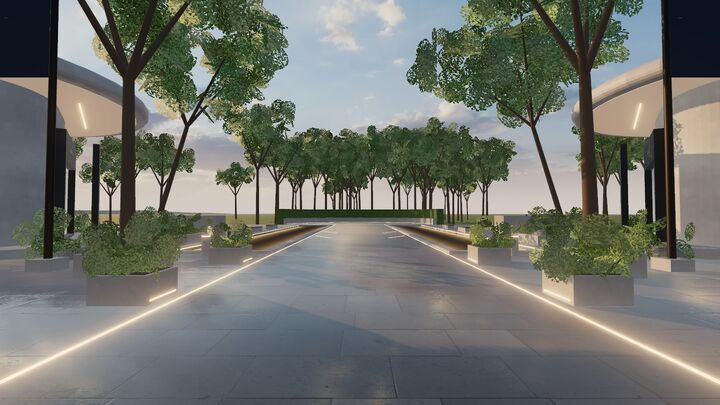
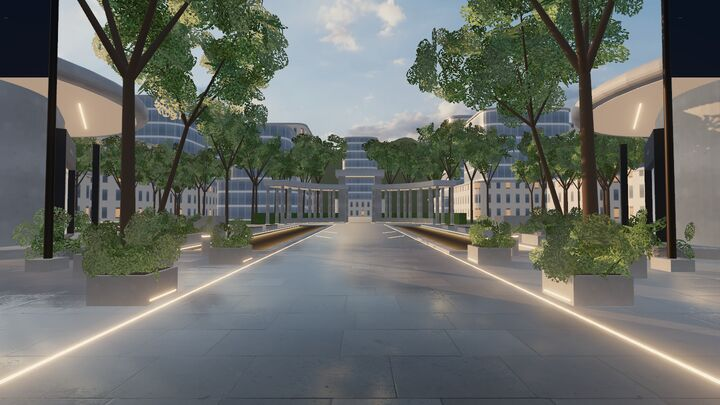
world: enclose the district with an entrance colonnade and a city ring
The owner asked to close off the open lawn fields around the plaza.
- Entrance colonnade on the terrace: slender columns, curved canopy with
  lit soffit and warm column uplights, central portal framing the axis.
- City ring behind the side groves and past the entrance: rounded blocks
  with podium + setback massing, two procedural facade families (glass
  with slim slab edges; cream stone with punched windows), a few warm-lit
  panes, cornices, paved streets; lower toward the lake; a civic tower
  terminates the avenue through the portal.
- Planted hills behind the city (never over the lake) and a haze-toned
  skyline beside the mountains. Softer sun glint on water.
- Iterated from renders: striped facades, block density, lawn gaps, hills
  in the lake, and bright skyline slabs were all fixed.
- A/B: no measurable frame-time change (+24k tris, +5 draws; 121k/150k).

Local: 66 unit, 29 browser, 53 lifecycle pass.

diff --git a/src/world/district/surroundings.ts b/src/world/district/surroundings.ts
@@ -1,0 +1,160 @@
+import { BufferAttribute, Color, CylinderGeometry, DoubleSide, ExtrudeGeometry, Mesh, MeshStandardMaterial, PlaneGeometry, RingGeometry, Shape } from 'three';
+import type { Group } from 'three';
+import type { ResourceScope } from '../runtime.ts';
+import { place } from './geometry.ts';
+import type { StaticBatch } from './geometry.ts';
+import { district } from './layout.ts';
+import { random } from './materials.ts';
+import type { DistrictMaterials } from './materials.ts';
+
+/** Rounded-rectangle plan extruded upward (shape y = −z), centered on its footprint. */
+function block(width: number, depth: number, height: number, radius: number): ExtrudeGeometry {
+  const w = width / 2; const d = depth / 2; const r = Math.min(radius, w - 0.1, d - 0.1);
+  const s = new Shape();
+  s.moveTo(-w + r, -d); s.lineTo(w - r, -d); s.quadraticCurveTo(w, -d, w, -d + r);
+  s.lineTo(w, d - r); s.quadraticCurveTo(w, d, w - r, d); s.lineTo(-w + r, d);
+  s.quadraticCurveTo(-w, d, -w, d - r); s.lineTo(-w, -d + r); s.quadraticCurveTo(-w, -d, -w + r, -d);
+  const geometry = new ExtrudeGeometry(s, { depth: height, bevelEnabled: false, curveSegments: 6 });
+  geometry.rotateX(-Math.PI / 2);
+  return geometry;
+}
+
+interface Footprint { x: number; z: number; w: number; d: number; yaw: number; h: number }
+
+/**
+ * The entrance colonnade, the city ring, the hills behind it, and a faint skyline. Everything
+ * here is outside the walkable area and batched, so it adds scenery, not draw calls.
+ */
+export function buildSurroundings(root: Group, m: DistrictMaterials, batch: StaticBatch, lights: StaticBatch, resources: ResourceScope, detail: boolean): void {
+  const rand = random(303);
+  const { terrace, gate, city } = district;
+
+  // Entrance colonnade: slender columns under a thick curved canopy with a lit soffit, opening
+  // at the center into a taller portal that frames the boulevard.
+  const mid = Math.PI / 2;
+  const canopyShape = (a0: number, a1: number): Shape => {
+    const inner = gate.radius - gate.depth / 2; const outer = gate.radius + gate.depth / 2;
+    const s = new Shape();
+    s.absarc(0, 0, outer, a0, a1, false);
+    s.absarc(0, 0, inner, a1, a0, true);
+    return s;
+  };
+  for (const [a0, a1] of [[terrace.from, mid - gate.opening], [mid + gate.opening, terrace.to]] as const) {
+    // Shape space (x, y) → world (x, −z) after rotateX; mirror y so arcs sit behind spawn (+Z).
+    const roof = new ExtrudeGeometry(canopyShape(-a1, -a0), { depth: 0.55, bevelEnabled: true, bevelThickness: 0.18, bevelSize: 0.18, bevelSegments: 3, curveSegments: 36 });
+    roof.rotateX(-Math.PI / 2);
+    batch.add(m.roof, roof, place(terrace.x, gate.height, terrace.z), 5);
+    const soffit = new RingGeometry(gate.radius - gate.depth / 2 + 0.2, gate.radius + gate.depth / 2 - 0.2, 36, 1, a0, a1 - a0).rotateX(Math.PI / 2);
+    batch.add(m.soffit, soffit, place(terrace.x, gate.height - 0.19, terrace.z), 5);
+    lights.add(m.warmLight, new RingGeometry(gate.radius - gate.depth / 2 + 0.15, gate.radius - gate.depth / 2 + 0.25, 36, 1, a0, a1 - a0).rotateX(Math.PI / 2), place(terrace.x, gate.height - 0.2, terrace.z));
+    const count = Math.max(2, Math.round(((a1 - a0) * gate.radius) / 2.6));
+    for (let i = 0; i <= count; i++) {
+      const a = a0 + ((a1 - a0) * i) / count;
+      for (const r of [gate.radius - gate.depth / 2 + 0.45, gate.radius + gate.depth / 2 - 0.45]) {
+        const cx = terrace.x + Math.cos(a) * r; const cz = terrace.z + Math.sin(a) * r;
+        batch.add(m.stone, new CylinderGeometry(0.22, 0.26, gate.height - 0.1, 14), place(cx, gate.height / 2, cz), 1.5);
+        // A warm ring at each column foot, like the district's other set-in lights.
+        lights.add(m.warmLight, new CylinderGeometry(0.34, 0.34, 0.03, 16, 1, true), place(cx, 0.06, cz));
+      }
+    }
+  }
+  // Portal: two tall pylons and a lintel over the axis, taller than the colonnade.
+  const portalZ = terrace.z + gate.radius; const portalH = gate.height + 2.4; const span = 2 * gate.radius * Math.sin(gate.opening) + 0.6;
+  for (const side of [-1, 1]) batch.box(m.stone, 1.2, portalH, gate.depth + 0.4, place(side * (span / 2 + 0.3), portalH / 2, portalZ), 3);
+  batch.box(m.roof, span + 2.8, 1.1, gate.depth + 0.8, place(0, portalH + 0.35, portalZ), 4);
+  lights.box(m.warmLight, span - 0.2, 0.04, 0.08, place(0, portalH - 0.22, portalZ - gate.depth / 2 + 0.1));
+  // Entry court beyond the portal so the axis continues into the city instead of stopping.
+  batch.box(m.paving, span + 8, 0.3, 26, place(0, -0.15, portalZ + 14), 4);
+
+  // Paved city ground under the ring, so gaps between blocks read as streets, not open lawn.
+  const { sides, back } = city;
+  for (const side of [-1, 1]) {
+    const cx = side * (sides.innerX - 3 + (sides.outerX - sides.innerX + 6) / 2);
+    batch.box(m.paving, sides.outerX - sides.innerX + 6, 0.3, sides.maxZ - sides.minZ + 16, place(cx, -0.14, (sides.minZ + sides.maxZ) / 2), 8);
+  }
+  batch.box(m.paving, back.halfWidth * 2 + 12, 0.3, back.maxZ - back.minZ + 40, place(0, -0.14, (back.minZ + back.maxZ) / 2 + 12), 8);
+
+  // City ring: rows of rounded blocks with streets, taller with distance, facing the district.
+  const blocks: Footprint[] = [];
+  const row = (fromZ: number, toZ: number, x0: number, x1: number, sideYaw: number): void => {
+    let x = x0;
+    while (Math.abs(x) < Math.abs(x1)) {
+      const w = 20 + rand() * 12;
+      let z = fromZ;
+      while (z < toZ) {
+        const d = 18 + rand() * 14;
+        const reach = Math.hypot(x, z) / 100;
+        // Lower toward the lake so the shoreline stays open and the plaza's sky stays clear.
+        const lakeward = Math.max(0, Math.min(1, (z + 20) / 40));
+        blocks.push({ x: x + Math.sign(x) * w / 2, z: z + d / 2, w, d, yaw: sideYaw, h: 8 + (reach * 14 + rand() * 10) * (0.35 + 0.65 * lakeward) });
+        z += d + city.street;
+      }
+      x += Math.sign(x) * (w + city.street);
+    }
+  };
+  row(city.sides.minZ, city.sides.maxZ, -city.sides.innerX, -city.sides.outerX, 0);
+  row(city.sides.minZ, city.sides.maxZ, city.sides.innerX, city.sides.outerX, 0);
+  for (let x = -city.back.halfWidth; x < city.back.halfWidth;) {
+    const w = 20 + rand() * 12;
+    // Keep the entry court's continuation open as an avenue.
+    if (Math.abs(x + w / 2) < 14) { x += w + city.street; continue; }
+    let z = city.back.minZ;
+    while (z < city.back.maxZ) {
+      const d = 18 + rand() * 12;
+      blocks.push({ x: x + w / 2, z: z + d / 2, w, d, yaw: 0, h: 10 + (Math.hypot(x, z) / 100) * 16 + rand() * 10 });
+      z += d + city.street;
+    }
+    x += w + city.street;
+  }
+  // The avenue beyond the portal ends at a civic tower on the axis, framed by the gate.
+  blocks.push({ x: 0, z: city.back.maxZ + 14, w: 22, d: 18, yaw: 0, h: 34 });
+  for (const b of blocks) {
+    const podium = Math.min(b.h, 7 + rand() * 3);
+    const radius = 3 + rand() * 4;
+    const skin = rand() < 0.55 ? m.facadeGlass : m.facadeStone;
+    batch.add(skin, block(b.w, b.d, podium, radius), place(b.x, 0, b.z, b.yaw), 7.2);
+    batch.add(m.roof, block(b.w + 0.8, b.d + 0.8, 0.45, radius + 0.4), place(b.x, podium, b.z, b.yaw), 6);
+    if (b.h > podium + 3) {
+      // A setback upper volume with its own cornice: the stepped silhouettes of the mockup's towers.
+      const inset = 2 + rand() * 2.5;
+      batch.add(rand() < 0.7 ? skin : skin === m.facadeGlass ? m.facadeStone : m.facadeGlass, block(b.w - inset * 2, b.d - inset * 2, b.h - podium, radius), place(b.x, podium + 0.45, b.z, b.yaw), 7.2);
+      batch.add(m.roof, block(b.w - inset * 2 + 0.8, b.d - inset * 2 + 0.8, 0.5, radius + 0.4), place(b.x, b.h + 0.45, b.z, b.yaw), 6);
+      if (detail && rand() < 0.35) lights.box(m.warmLight, b.w - inset * 2 - 0.6, 0.05, 0.05, place(b.x, b.h + 0.3, b.z - (b.d / 2 - inset) - 0.4, b.yaw));
+    }
+  }
+
+  // Hills behind the city: a ring from side to side around the back, never across the lake.
+  const hills = new PlaneGeometry(1, 1, 160, 5);
+  const pos = hills.getAttribute('position'); const colors = new Float32Array(pos.count * 3);
+  const low = new Color(0x5b6f52); const high = new Color(0x8a9a78); const c = new Color();
+  const phases = [rand() * 6, rand() * 6, rand() * 6];
+  for (let i = 0; i < pos.count; i++) {
+    const u = pos.getX(i) + 0.5; const t = pos.getY(i) + 0.5;
+    const angle = -1.75 + u * 3.5; // beside the city on one side, round the back, to the other; never over the lake
+    const ridge = 0.6 + 0.25 * Math.sin(angle * 4 + (phases[0] ?? 0)) + 0.12 * Math.sin(angle * 11 + (phases[1] ?? 0)) + 0.05 * Math.sin(angle * 29 + (phases[2] ?? 0));
+    const radius = 175 + 25 * Math.sin(angle * 2.3) - t * 30;
+    pos.setXYZ(i, Math.sin(angle) * radius, ridge * 46 * t - 2, Math.cos(angle) * radius);
+    c.copy(low).lerp(high, t); colors.set([c.r, c.g, c.b], i * 3);
+  }
+  hills.setAttribute('color', new BufferAttribute(colors, 3));
+  hills.computeVertexNormals();
+  const hillMesh = new Mesh(resources.track(hills), resources.track(new MeshStandardMaterial({ vertexColors: true, roughness: 1, side: DoubleSide })));
+  hillMesh.name = 'city-hills';
+  root.add(hillMesh);
+
+  // A faint skyline in the haze, beside the mountains as in the mockup.
+  if (detail) {
+    // Toned toward the horizon haze so the towers recede like distant architecture, not white slabs.
+    const skyline = resources.track(new MeshStandardMaterial({ color: 0x9aa7b3, roughness: 1, envMapIntensity: 0.4 }));
+    const towers: Array<[number, number, number, number]> = [];
+    for (const side of [-1, 1]) {
+      for (let i = 0; i < 7; i++) {
+        // Angle off the forward (−Z) axis: ahead-left and ahead-right, well clear of the landmark.
+        const angle = side * (0.95 + rand() * 0.55);
+        const r = 330 + rand() * 90;
+        towers.push([Math.sin(angle) * r, -Math.cos(angle) * r, 7 + rand() * 9, 35 + rand() * 60]);
+      }
+    }
+    for (const [x, z, w, h] of towers) batch.add(skyline, block(w, w, h, 1.5), place(x, 0, z), 20);
+  }
+}

diff --git a/src/world/district/materials.ts b/src/world/district/materials.ts
@@ -28,6 +28,9 @@ export interface DistrictMaterials {
   chrome: MeshPhysicalMaterial;
   warmLight: MeshBasicMaterial;
   banner: MeshStandardMaterial;
+  /** City facades in two families (see facadeTextures). */
+  facadeGlass: MeshStandardMaterial;
+  facadeStone: MeshStandardMaterial;
   /** Resolves once every texture has loaded or fallen back to flat color. */
   ready: Promise<void>;
   /** One settling promise per texture set, for progress reporting. */
@@ -83,6 +86,49 @@ function lawn(ctx: Canvas2D, size: number): void {
     ctx.lineWidth = 1;
     ctx.beginPath(); ctx.moveTo(x, y); ctx.lineTo(x + (rand() - 0.5) * 3, y - 2 - rand() * 3); ctx.stroke();
   }
+}
+
+/**
+ * Two storeys of city facade (7.2 m square at the geometry's UV scale), in two families that
+ * match the district's architecture. `glass`: floor-to-ceiling glazing between slim white slab
+ * edges, glass toned toward the haze so distant blocks recede. `stone`: warm cream stone with
+ * tall punched windows. A few warm-lit panes suggest golden-hour interiors. Returns [color, glow].
+ */
+function facadeTextures(doc: Document, size: number, style: 'glass' | 'stone', seed: number): [HTMLCanvasElement, HTMLCanvasElement] {
+  const color = doc.createElement('canvas'); const glow = doc.createElement('canvas');
+  color.width = color.height = glow.width = glow.height = size;
+  const c = color.getContext('2d'); const g = glow.getContext('2d');
+  if (!c || !g) return [color, glow];
+  const rand = random(seed); const floor = size / 2;
+  g.fillStyle = '#000'; g.fillRect(0, 0, size, size);
+  const pane = (x: number, y: number, w: number, h: number, base: string): void => {
+    const lit = rand() < 0.1;
+    c.fillStyle = lit ? '#6b5c4b' : base;
+    c.fillRect(x, y, w, h);
+    const sheen = c.createLinearGradient(0, y, 0, y + h);
+    sheen.addColorStop(0, 'rgba(214, 224, 232, 0.35)'); sheen.addColorStop(0.55, 'rgba(214, 224, 232, 0.05)'); sheen.addColorStop(1, 'rgba(214, 224, 232, 0.12)');
+    c.fillStyle = sheen; c.fillRect(x, y, w, h);
+    if (lit) { g.fillStyle = `rgb(${210 + Math.floor(rand() * 45)}, ${150 + Math.floor(rand() * 35)}, ${80 + Math.floor(rand() * 25)})`; g.fillRect(x, y + h * 0.15, w, h * 0.75); }
+  };
+  if (style === 'glass') {
+    c.fillStyle = '#f3efe8'; c.fillRect(0, 0, size, size);
+    for (let f = 0; f < 2; f++) {
+      const top = f * floor + floor * 0.1; const height = floor * 0.86;
+      const bays = 4; const bay = size / bays;
+      for (let b = 0; b < bays; b++) pane(b * bay + 1, top, bay - 2, height, rand() < 0.5 ? '#7d8d9a' : '#8898a4');
+    }
+  } else {
+    c.fillStyle = '#e4d8c6'; c.fillRect(0, 0, size, size);
+    // Faint stone coursing so the wall is not a flat fill.
+    c.fillStyle = 'rgba(120, 100, 80, 0.06)';
+    for (let y = 0; y < size; y += size / 12) c.fillRect(0, y, size, 1);
+    for (let f = 0; f < 2; f++) {
+      const top = f * floor + floor * 0.2; const height = floor * 0.62;
+      const columns = 3; const bay = size / columns;
+      for (let b = 0; b < columns; b++) pane(b * bay + bay * 0.3, top, bay * 0.4, height, '#6f7c86');
+    }
+  }
+  return [color, glow];
 }
 
 /** Leaves spread edge to edge and wrapped at the borders, so hedges tile without visible blobs. */
@@ -164,6 +210,12 @@ export function createMaterials(renderer: WebGLRenderer, resources: ResourceScop
   hedgeTexture.wrapS = RepeatWrapping; hedgeTexture.wrapT = RepeatWrapping;
   const grassTexture = resources.track(canvasTexture(doc, 128, grassTuft));
   const lawnTexture = resources.track(canvasTexture(doc, 256, lawn));
+  const facade = (style: 'glass' | 'stone', seed: number): MeshStandardMaterial => {
+    const [colorCanvas, glowCanvas] = facadeTextures(doc, 256, style, seed);
+    const map = resources.track(new CanvasTexture(colorCanvas)); const glow = resources.track(new CanvasTexture(glowCanvas));
+    for (const t of [map, glow]) { t.colorSpace = SRGBColorSpace; t.wrapS = RepeatWrapping; t.wrapT = RepeatWrapping; t.anisotropy = anisotropy; }
+    return standard(0xffffff, style === 'glass' ? 0.35 : 0.8, { map, emissive: 0xffffff, emissiveMap: glow, emissiveIntensity: 0.8, envMapIntensity: style === 'glass' ? 1.3 : 1 });
+  };
   lawnTexture.wrapS = RepeatWrapping; lawnTexture.wrapT = RepeatWrapping;
 
   const materials: Omit<DistrictMaterials, 'ready' | 'tasks'> = {
@@ -190,6 +242,8 @@ export function createMaterials(renderer: WebGLRenderer, resources: ResourceScop
     // Values above 1 feed the bloom pass: warm LED strips set into stone.
     warmLight: own(new MeshBasicMaterial({ color: new Color(0xffc987).multiplyScalar(2.4), toneMapped: true })),
     banner: standard(0x2b374a, 0.75, { side: DoubleSide }),
+    facadeGlass: facade('glass', 71),
+    facadeStone: facade('stone', 73),
   };
   const load = pbrLoader(anisotropy, resources, disposed);
   const onLoad = (): void => { if (!disposed()) invalidate(); };

diff --git a/src/world/district/landscape.ts b/src/world/district/landscape.ts
@@ -180,17 +180,22 @@ export function buildLandscape(root: Group, m: DistrictMaterials, batch: StaticB
   // Groves outside the paved district: behind the pavilions, and along the lakefront sides.
   for (let i = 0; i < (outerTrees ? 70 : 0); i++) {
     const side = i % 2 ? 1 : -1;
-    const x = side * (29 + rand() * 26); const z = -70 + rand() * 105;
+    const x = side * (29 + rand() * 14); const z = -70 + rand() * 120;
     plant(x, z, 1 + rand() * 0.35);
   }
   // A dense tree line behind the terrace closes the view back toward the entrance.
   const { terrace } = district;
   for (let i = 0; i < 18; i++) {
     const a = terrace.from + ((terrace.to - terrace.from) * (i + rand() * 0.6)) / 18;
-    const r = terrace.radius + 2.5 + rand() * 2.5;
+    const r = district.gate.radius + district.gate.depth / 2 + 3.5 + rand() * 3.5;
+    if (Math.abs(a - Math.PI / 2) < district.gate.opening + 0.05) continue;
     plant(terrace.x + Math.cos(a) * r, terrace.z + Math.sin(a) * r, 1.15 + rand() * 0.3);
   }
-  for (let i = 0; i < (outerTrees ? 22 : 0); i++) plant((rand() - 0.5) * 60, 36 + rand() * 26, 1.2);
+  // Street trees along the city edges soften the block faces.
+  for (let i = 0; i < (outerTrees ? 30 : 0); i++) {
+    const side = i % 2 ? 1 : -1;
+    plant(side * (44 + rand() * 2), -52 + rand() * 118, 1.1 + rand() * 0.3);
+  }
 
   templates.forEach((template, i) => {
     instanced(root, template.trunk, m.bark, trees[i] ?? [], resources, `tree-trunks-${i}`);

diff --git a/src/world/district/ground.ts b/src/world/district/ground.ts
@@ -128,10 +128,14 @@ export function buildGround(root: Group, m: DistrictMaterials, water: { channel:
     const a0 = terrace.from + ((terrace.to - terrace.from) * i) / segments;
     const a1 = terrace.from + ((terrace.to - terrace.from) * (i + 1)) / segments;
     const a = (a0 + a1) / 2; const chord = 2 * terrace.radius * Math.sin((a1 - a0) / 2) + 0.05;
+    // The entrance portal stands on the axis: leave the wall open there.
+    if (Math.abs(a - Math.PI / 2) < district.gate.opening) continue;
     const x = terrace.x + Math.cos(a) * terrace.radius; const z = terrace.z + Math.sin(a) * terrace.radius;
     const yaw = Math.PI / 2 - a;
     batch.box(m.stone, chord, 0.9, 0.55, place(x, 0.45, z, yaw), 2);
-    batch.box(m.hedge, chord, 2.3, 1.1, place(x + Math.cos(a) * 0.9, 1.15, z + Math.sin(a) * 0.9, yaw), 1.2);
+    // Planting behind the colonnade; the portal keeps its view through to the entry court.
+    const back = district.gate.radius + district.gate.depth / 2 + 1.2;
+    batch.box(m.hedge, chord * (back / terrace.radius), 1.7, 1.2, place(terrace.x + Math.cos(a) * back, 0.85, terrace.z + Math.sin(a) * back, yaw), 1.2);
     lights.box(m.warmLight, chord, 0.03, 0.03, place(x - Math.cos(a) * 0.29, 0.12, z - Math.sin(a) * 0.29, yaw));
   }
   batch.box(m.paving, terrace.radius * 2 + 4, slab, terrace.radius + 3, place(terrace.x, -slab / 2, terrace.z + terrace.radius / 2 - 0.5), paveUv);

diff --git a/src/world/district/layout.ts b/src/world/district/layout.ts
@@ -81,6 +81,17 @@ export const district = {
   edgePlanters: [-13.8, -19, -24.2].flatMap((z) => [{ x: -4.45, z }, { x: 4.45, z }]),
   /** Curved stone terrace closing the view behind spawn: center, radius, and arc (radians). */
   terrace: { x: 0, z: 23, radius: 11, from: 0.18, to: Math.PI - 0.18 },
+  /** Entrance colonnade on the terrace: a curved canopy on slender columns with a central portal. */
+  gate: { radius: 12.6, height: 5.8, depth: 3.2, opening: 0.2 },
+  /**
+   * The city beyond the district, outside the walkable area: blocks sit behind the side groves
+   * and past the entrance; the lake side stays open. Heights rise with distance.
+   */
+  city: {
+    sides: { innerX: 47, outerX: 98, minZ: -58, maxZ: 70 },
+    back: { minZ: 62, maxZ: 118, halfWidth: 98 },
+    street: 7,
+  },
   /** Stone benches with wood tops behind the plinths (long axis along Z). */
   benches: [{ x: -9.4, z: 5.5 }, { x: 9.4, z: 5.5 }, { x: -9.4, z: 11.5 }, { x: 9.4, z: 11.5 }],
   banners: [{ x: -9.3, z: -15.5 }, { x: 9.3, z: -15.5 }],

diff --git a/src/world/district/index.ts b/src/world/district/index.ts
@@ -9,6 +9,7 @@ import { district } from './layout.ts';
 import { createMaterials } from './materials.ts';
 import { buildPavilion } from './pavilions.ts';
 import { buildSignage } from './signage.ts';
+import { buildSurroundings } from './surroundings.ts';
 import { storefrontTargets } from './targets.ts';
 import type { TargetVolume } from '../interactions/targeting.ts';
 import { createPost } from './post.ts';
@@ -71,6 +72,7 @@ export function createDistrict({ resources, renderer, camera, invalidate }: Cont
   const orbDrift = buildLandmark(root, m, batch, resources);
   const windTime = { value: 0 };
   buildLandscape(root, m, batch, resources, windTime, quality.outerTrees);
+  buildSurroundings(root, m, batch, lights, resources, quality.outerTrees);
   batch.build(root);
   lights.build(root, { castShadow: false, receiveShadow: false });
   const { fountain } = district;

diff --git a/src/world/district/water.ts b/src/world/district/water.ts
@@ -31,7 +31,7 @@ export function waterMaterial(skyMap: Texture, resources: ResourceScope, options
     skyMap: { value: null },
     hazeTint: { value: hazeColor },
     sunDir: { value: sunDirection.clone() },
-    sunColor: { value: new Color(0xffe2b8).multiplyScalar(6) },
+    sunColor: { value: new Color(0xffe2b8).multiplyScalar(3.2) },
     deep: { value: new Color(options.deep) },
     shallow: { value: new Color(options.shallow) },
     rippleScale: { value: options.scale },

diff --git a/README.md b/README.md
@@ -8,7 +8,7 @@ Demo District turns discovery into a place: a pedestrian exhibition district wit
 
 **World passes 1–3: the walkable plaza.** See [the checkpoint and side-by-side with the mockup](docs/PASSES_01-03.md).
 
-The preview is now the Demo District plaza itself: golden-hour sky and lighting, stone boulevard and water channels, eight pavilions from a reusable kit with lit storefront interiors, the arch-and-orb landmark over a fountain, trees and planting, a lake, and mountains. You walk it with WASD and mouse on desktop, or drag and the stick on a phone, and you collide with everything solid. Storefronts carry signage and open a project preview by click, tap, or Enter; the listings are clearly marked samples until real project records exist ([pass 4](docs/PASS_04.md)). The mockup's HUD is in place with search, a map, and a loading screen ([pass 5](docs/PASS_05.md)). Desktop browsers are the primary target; phones and software-rendered browsers get lighter automatic quality tiers. Native ChatGPT Sites acceptance and physical-device testing remain pending. Nothing has been merged or deployed.
+The preview is now the Demo District plaza itself: golden-hour sky and lighting, stone boulevard and water channels, eight pavilions from a reusable kit with lit storefront interiors, the arch-and-orb landmark over a fountain, trees and planting, an entrance colonnade, a surrounding city, a lake, and mountains. You walk it with WASD and mouse on desktop, or drag and the stick on a phone, and you collide with everything solid. Storefronts carry signage and open a project preview by click, tap, or Enter; the listings are clearly marked samples until real project records exist ([pass 4](docs/PASS_04.md)). The mockup's HUD is in place with search, a map, and a loading screen ([pass 5](docs/PASS_05.md)). Desktop browsers are the primary target; phones and software-rendered browsers get lighter automatic quality tiers. Native ChatGPT Sites acceptance and physical-device testing remain pending. Nothing has been merged or deployed.
 
 ![Current spawn view with HUD](docs/art/alpha-spawn.jpg)
 

diff --git a/docs/WORLD_ALPHA_AUDIT.md b/docs/WORLD_ALPHA_AUDIT.md
@@ -10,6 +10,8 @@
 | --- | --- | --- | --- | --- |
 | ![](art/alpha-midway.jpg) | ![](art/alpha-plaza.jpg) | ![](art/alpha-lookback.jpg) | ![](art/alpha-terrace.jpg) | ![](art/alpha-phone.jpg) |
 
+City ring beyond the pavilions: ![Side view](art/city-side.jpg)
+
 ## Gate (implementation plan, section 11)
 
 | Gate item | Status | Evidence |
@@ -48,7 +50,13 @@ Each was found by reviewing renders against the mockup, and each is fixed only w
 2. **No people.** The mockup shows pedestrians. Crowds and NPCs are explicitly outside V1, so the plaza feels emptier than the render.
 3. **Placeholder copy.** Sign, banner, and wall wording is modelled on the mockup and expected to be rewritten (`signage-copy.ts`).
 4. **Storefront interiors are generic at close range** until real projects supply media.
-5. **Distant edges.** A sliver of flat lawn shows between the side groves at the horizon, and the lake edge is plain from the waterfront.
+5. **Distant edges (resolved after the audit, at the owner's request).** The open lawn around the district is gone:
+   - An entrance colonnade with a central portal frames a civic tower on the axis.
+   - A city ring of rounded glass and cream-stone blocks stands behind the side groves and past the entrance, lower toward the lake, on paved streets.
+   - Planted hills rise behind it, and a faint, haze-toned skyline sits beside the mountains.
+   - The lake side stays open.
+   - A/B measurement shows no frame-time cost; triangles at spawn are 121k of the 150k budget.
+   - Only the lake's far shoreline remains plain.
 6. **Not yet validated:** physical iPhone and Android, Safari and Firefox, mid-range GPUs, native ChatGPT Sites hosting, and the full accessibility pass (slice 41).
 
 ## Recommendation

diff --git a/docs/PERFORMANCE_BUDGET.md b/docs/PERFORMANCE_BUDGET.md
@@ -85,6 +85,8 @@ It renders four fixed views synchronously, forcing GPU completion with a 1-pixel
 
 **Adaptive safety net.** In automatic mode, if the smoothed frame interval stays above 26 ms (about 38 fps) for 4 s after a 3 s warmup, the world steps down one tier in place. Judging starts only once content has loaded. A visitor's explicit graphics choice is never overridden. The governor's logic is unit-tested and exercised end to end on SwiftShader.
 
+**City ring (2026-09-25).** The entrance colonnade, city blocks, hills, and skyline add about 24k triangles and 5 draw calls (spawn: 121k triangles, 100 draws). An A/B run under identical conditions shows no measurable frame-time change: all city geometry merges into existing per-material batches. The low tier drops the skyline and roof light accents.
+
 ## Quality tiers
 
 | Tier | Chosen for | Shadows | Post | MSAA | Buffer budget | Groves | Decorative motion |

diff --git a/public/world/LICENSES.md b/public/world/LICENSES.md
@@ -14,7 +14,7 @@ project media is stored here.
 | `textures/rock_boulder_dry_*.webp` | Rock Boulder Dry | Dimitrios Savva (photography), Rico Cilliers (processing) | https://polyhaven.com/a/rock_boulder_dry | 1k set; diffuse brightened and desaturated to 35%; roughness at half size; WebP. |
 | `textures/red_oak_veneer_*.webp` | Red Oak Veneer | Jenelle van Heerden | https://polyhaven.com/a/red_oak_veneer | 1k set; roughness at half size; WebP. |
 
-Procedural textures (leaf clusters, hedges, lawn, grass tufts) are generated in the browser
+Procedural textures (leaf clusters, hedges, lawn, grass tufts, city facades) are generated in the browser
 by `src/world/district/materials.ts` and have no external source.
 
 When adding an asset: keep it local, record it in this table with its license and changes,
